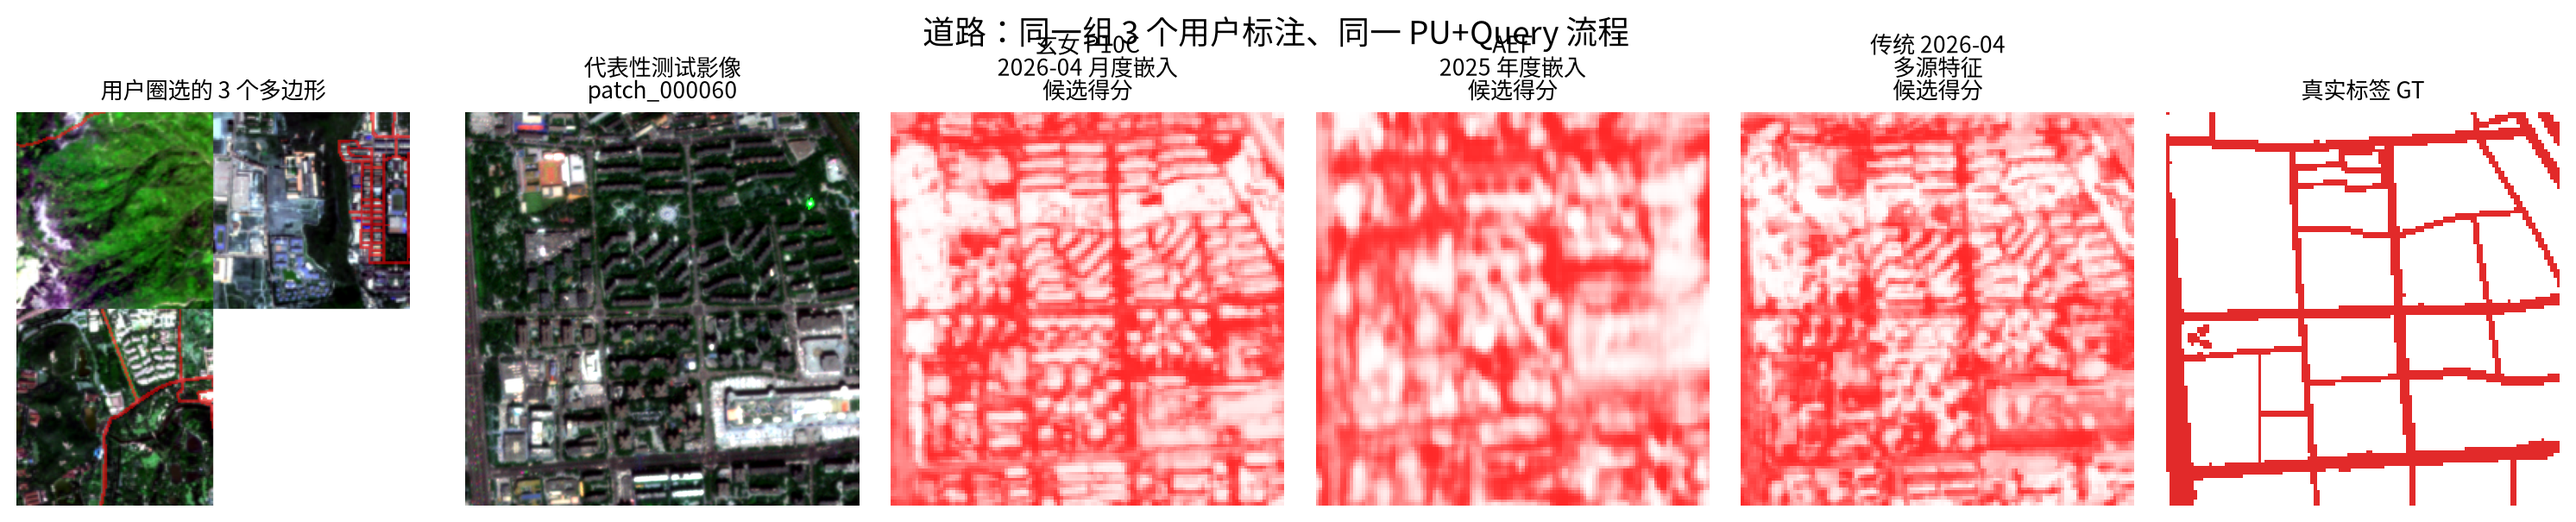
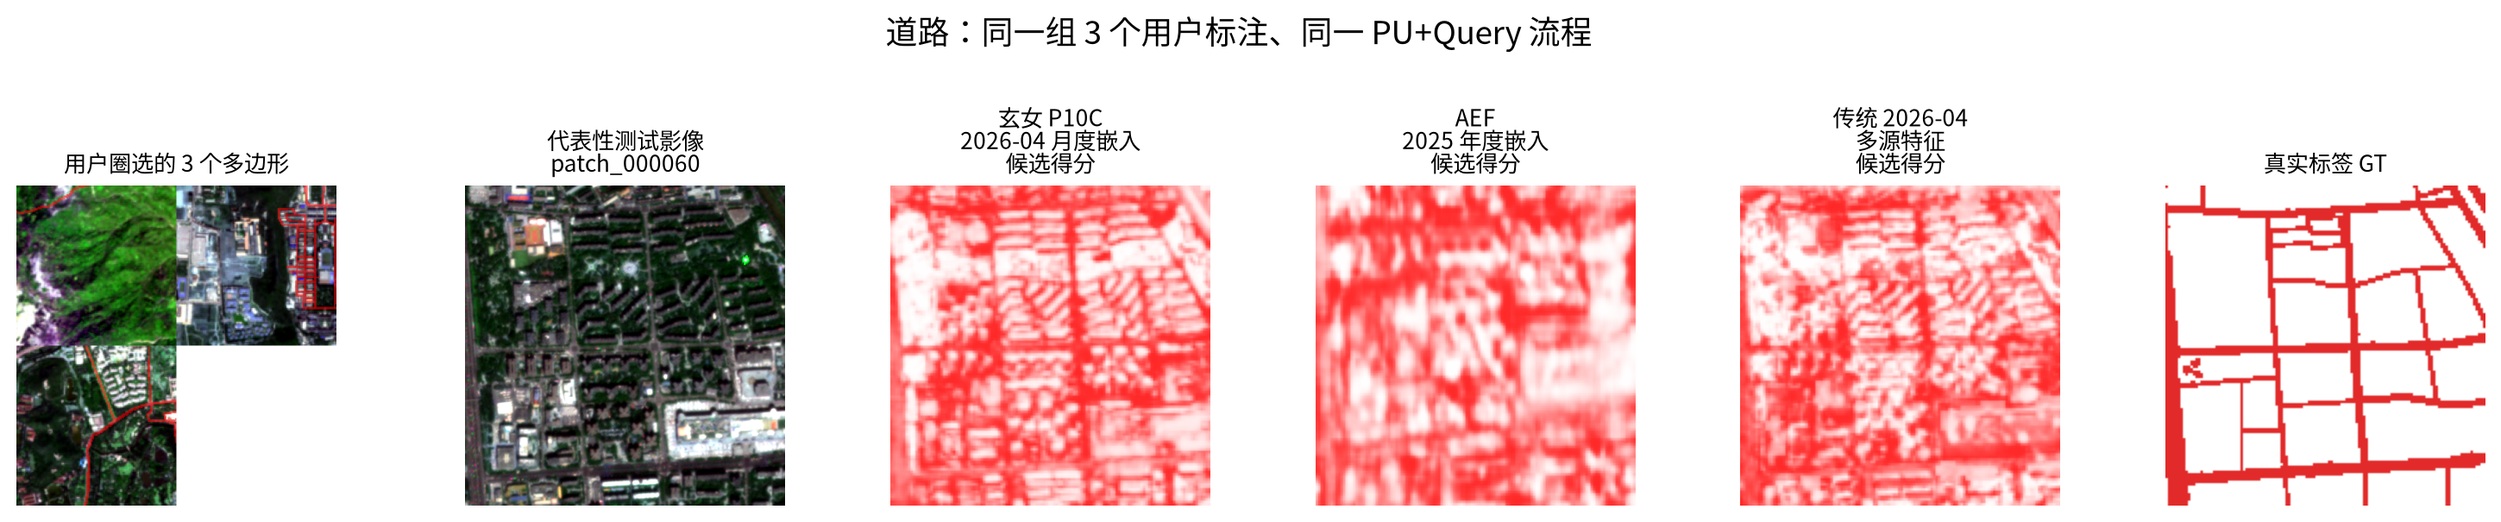
docs: fix Pujiang slide 5 sparse examples

diff --git a/scripts/report/build_pu_query_3polygon_comparison.py b/scripts/report/build_pu_query_3polygon_comparison.py
@@ -16,7 +16,7 @@ matplotlib.use("Agg")
 import matplotlib.pyplot as plt
 import numpy as np
 from matplotlib import font_manager
-from PIL import Image
+from PIL import Image, ImageDraw, ImageFont
 
 from scripts.eval import run_pu_query_sparse_eval as evaluation
 from scripts.report.visualize_osm_downstream_outputs import load_highres
@@ -105,6 +105,69 @@ def red_score(score: np.ndarray) -> np.ndarray:
     output[..., 1] = 1.0 - 0.84 * normalized
     output[..., 2] = 1.0 - 0.84 * normalized
     return output
+
+
+def pil_font(size: int, bold: bool = False) -> ImageFont.FreeTypeFont:
+    path = (
+        "/usr/share/fonts/google-noto-cjk/NotoSansCJK-Bold.ttc"
+        if bold
+        else "/usr/share/fonts/google-noto-cjk/NotoSansCJK-Regular.ttc"
+    )
+    return ImageFont.truetype(path, size)
+
+
+def fit_array(image: np.ndarray, size: tuple[int, int]) -> Image.Image:
+    array = np.asarray(image)
+    if np.issubdtype(array.dtype, np.floating):
+        array = np.uint8(np.clip(array, 0, 1) * 255)
+    else:
+        array = np.uint8(array)
+    source = Image.fromarray(array).convert("RGB")
+    ratio = min(size[0] / source.width, size[1] / source.height)
+    resized = source.resize(
+        (max(1, int(source.width * ratio)), max(1, int(source.height * ratio))),
+        Image.Resampling.LANCZOS,
+    )
+    panel = Image.new("RGB", size, "white")
+    panel.paste(resized, ((size[0] - resized.width) // 2, (size[1] - resized.height) // 2))
+    return panel
+
+
+def save_slide_row(
+    task: str,
+    panels: list[tuple[np.ndarray, str]],
+    output: Path,
+) -> None:
+    if len(panels) != 6:
+        raise ValueError("slide row requires exactly six panels")
+    canvas = Image.new("RGB", (1600, 190), "white")
+    draw = ImageDraw.Draw(canvas)
+    draw.rectangle((0, 0, 100, 190), fill=(0, 97, 170))
+    task_label = {"building": "建筑物", "road": "道路", "water": "水体"}[task]
+    draw.multiline_text(
+        (50, 95),
+        "\n".join(task_label),
+        font=pil_font(22, True),
+        fill="white",
+        anchor="mm",
+        align="center",
+        spacing=1,
+    )
+    panel_width, panel_height, gap = 235, 145, 8
+    for index, (image, title) in enumerate(panels):
+        x = 112 + index * (panel_width + gap)
+        bounds = draw.textbbox((0, 0), title, font=pil_font(17, True))
+        draw.text(
+            (x + (panel_width - (bounds[2] - bounds[0])) / 2, 5),
+            title,
+            font=pil_font(17, True),
+            fill=(0, 69, 122),
+        )
+        panel = fit_array(image, (panel_width, panel_height))
+        canvas.paste(panel, (x, 38))
+        draw.rectangle((x, 38, x + panel_width, 183), outline=(205, 215, 223), width=2)
+    output.parent.mkdir(parents=True, exist_ok=True)
+    canvas.save(output, optimize=True)
 
 
 def metric_figure(payload: dict[str, Any], output: Path) -> None:
@@ -331,6 +394,12 @@ def build_task_visuals(payload: dict[str, Any], assets: Path) -> None:
                 )
             )
         panels.append((red_binary(gt), "真实标签 GT"))
+        slide_titles = ("3 个圈选", "测试影像", "玄女候选", "AEF 候选", "传统候选", "真实标签")
+        save_slide_row(
+            task,
+            [(image, title) for (image, _), title in zip(panels, slide_titles)],
+            assets / f"{task}_slide_row.png",
+        )
         figure, axes = plt.subplots(
             1,
             len(panels),
@@ -346,7 +415,7 @@ def build_task_visuals(payload: dict[str, Any], assets: Path) -> None:
             fontsize=14,
             fontweight="bold",
         )
-        figure.tight_layout()
+        figure.tight_layout(rect=(0, 0, 1, 0.86))
         figure.savefig(
             assets / f"{task}_3polygon_compare.png",
             dpi=190,

diff --git a/scripts/report/build_pujiang_slides04_10.py b/scripts/report/build_pujiang_slides04_10.py
@@ -238,28 +238,27 @@ def page05() -> tuple[Image.Image, dict]:
         PAGE_TITLES[5],
         "用户每类只圈 3 个目标多边形；玄女、AEF 与传统特征共享同一标注和 PU+Query 流程",
     )
-    draw.rounded_rectangle((55, 198, 1545, 246), radius=5, fill=PALE_BLUE, outline=LINE, width=2)
+    draw.rounded_rectangle((55, 194, 1545, 254), radius=5, fill=PALE_BLUE, outline=LINE, width=2)
     centered(
         draw,
         "PU：从未标区域中自动寻找可靠背景；Query：在新 patch 中用高置信目标轻量校准。"
-        "候选得分白色低、红色高；右侧为真实标签。",
-        (70, 200, 1530, 244),
-        font(16, True),
+        "\n候选图仅做各方法单 patch 像素百分位显示：白低、红高；色深不可跨方法比较，"
+        "也不改变汇总指标或二值阈值。",
+        (70, 196, 1530, 252),
+        font(14, True),
         INK,
     )
     for index, task in enumerate(("building", "road", "water")):
-        source_path = PU_QUERY_ASSET_ROOT / f"{task}_3polygon_compare.png"
-        with Image.open(source_path) as source:
-            row = source.convert("RGB")
-        row = row.resize((1490, 190), Image.Resampling.LANCZOS)
-        y = 260 + index * 200
+        source_path = PU_QUERY_ASSET_ROOT / f"{task}_slide_row.png"
+        row = fit_image(source_path, (1490, 180))
+        y = 266 + index * 194
         canvas.paste(row, (55, y))
-        draw.rounded_rectangle((55, y, 1545, y + 190), radius=4, outline=LINE, width=2)
-    draw.rounded_rectangle((55, 864, 1545, 892), radius=4, fill=PALE_GRAY)
+        draw.rounded_rectangle((55, y, 1545, y + 180), radius=4, outline=LINE, width=2)
+    draw.rounded_rectangle((55, 856, 1545, 890), radius=4, fill=PALE_GRAY)
     centered(
         draw,
         "三行依次为建筑物、道路、水体；本页显示候选排序，第 8 页报告独立测试集二值指标。",
-        (70, 864, 1530, 892),
+        (70, 856, 1530, 890),
         font(14, True),
         MUTED,
     )

diff --git a/tests/test_pu_query_3polygon_report.py b/tests/test_pu_query_3polygon_report.py
@@ -5,6 +5,9 @@ import json
 import sys
 from pathlib import Path
 
+import numpy as np
+from PIL import Image
+
 
 SCRIPT = Path(__file__).parents[1] / "scripts/report/build_pu_query_3polygon_comparison.py"
 SPEC = importlib.util.spec_from_file_location("build_pu_query_3polygon_comparison", SCRIPT)
@@ -74,3 +77,16 @@ def test_build_metric_outputs_creates_figure_and_markdown(tmp_path: Path) -> Non
     assert "AEF 2025 年度嵌入" in text
     assert "传统 2026-04 多源特征" in text
     assert "F1" in text and "AUC" in text and "AP" in text
+
+
+def test_slide_row_has_stable_widescreen_strip_dimensions(tmp_path: Path) -> None:
+    panels = [
+        (np.full((128, 128, 3), index / 6, dtype=np.float32), f"panel-{index}")
+        for index in range(6)
+    ]
+    output = tmp_path / "row.png"
+
+    MODULE.save_slide_row("road", panels, output)
+
+    with Image.open(output) as image:
+        assert image.size == (1600, 190)
